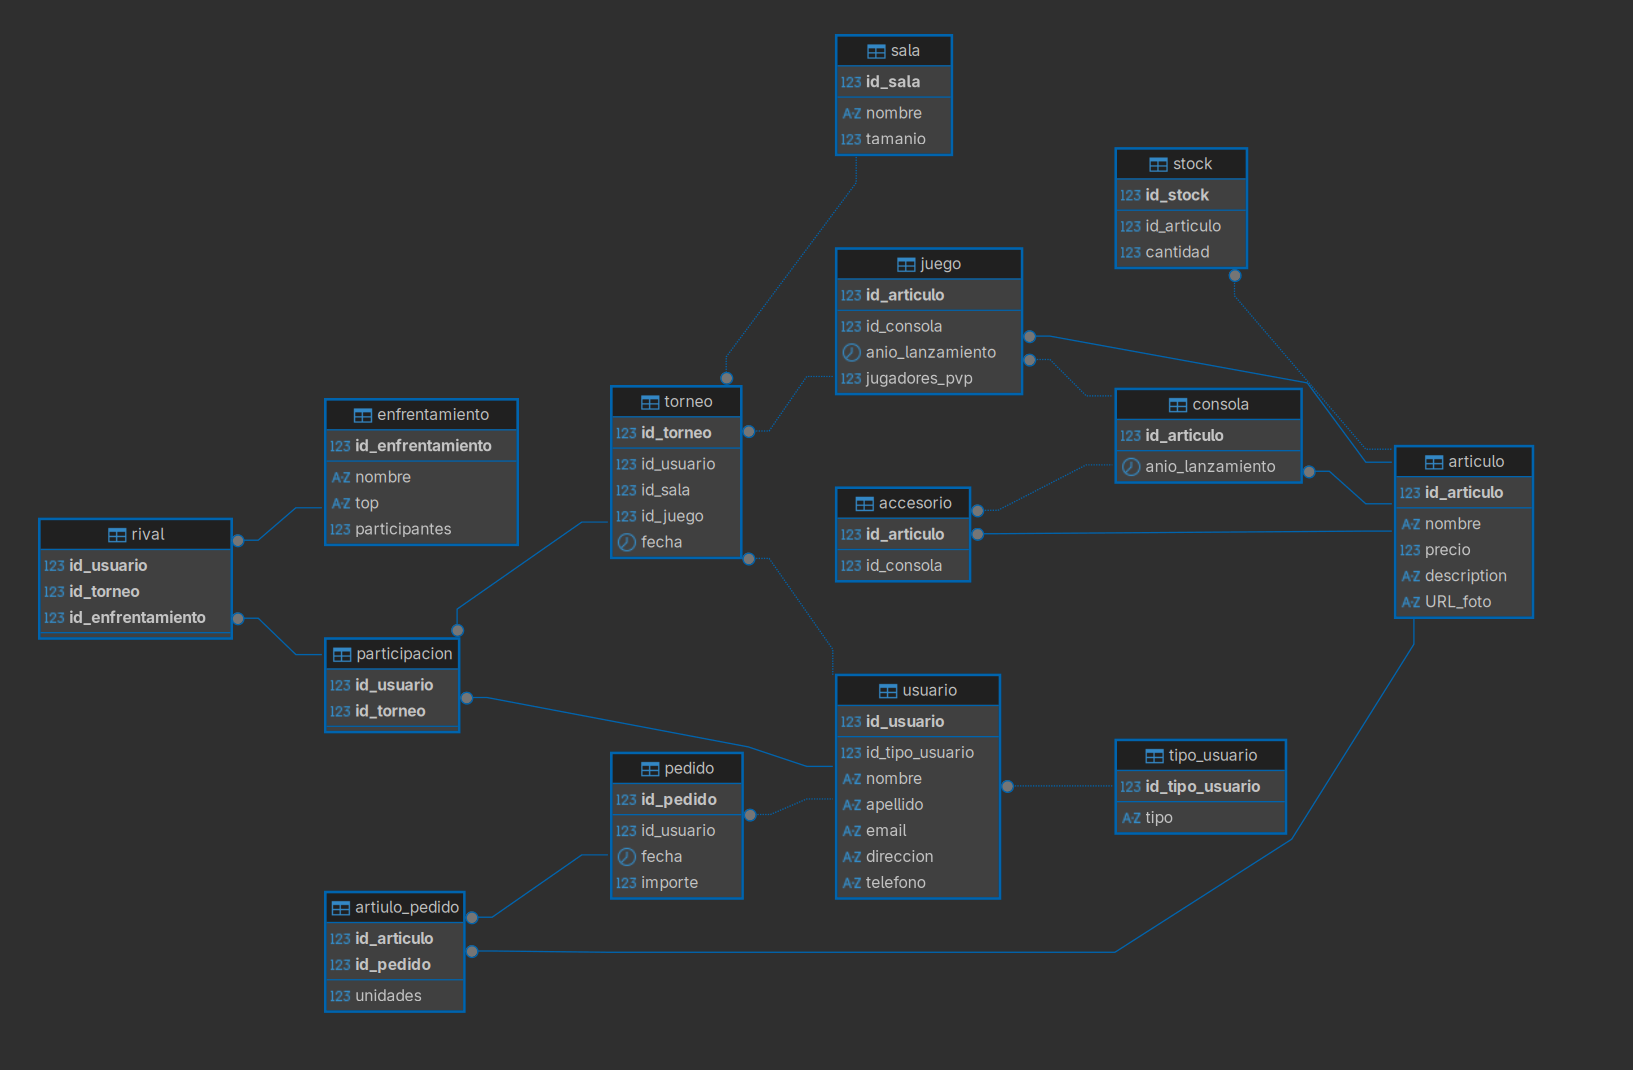
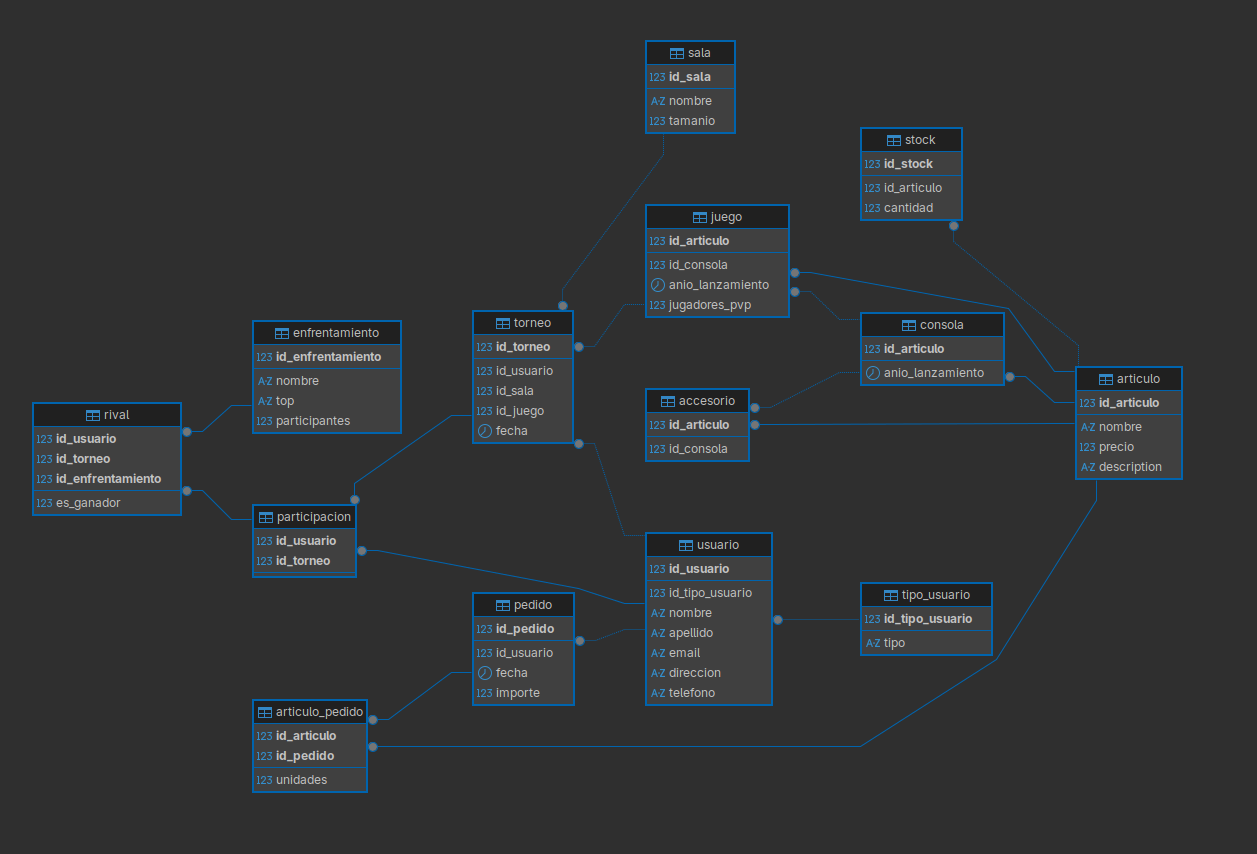
fix table articulo and rival BBDD/ModeloRelacional. Inserts BBDD

diff --git a/README.md b/README.md
@@ -43,13 +43,18 @@ asi como tener acceso a material de otra epoca a traves de nuestra tienda perdid
 
 ## 🚀 Estado del Proyecto
 
-Actualmente nos encontramos en el **Sprint 1: Cimientos**.
+Actualmente nos encontramos en el **Sprint 2: BBDD, diseño web y APP administración**.
 
 - [x] **GIT-01:** Setup del Repo
 - [x] **AN-01:** Definición de Stack Tecnológico (Java 17, JavaFX, MySQL, JDBC, HTML/CSS).
 - [x] **BBDD-01:** Diagrama E/R
-- [ ] **WEB-01:** Maquetación de Landing Page.
+- [x] **WEB-01:** Maquetación de Landing Page.
 - [ ] **APP-01:** Modelado POO
 - [x] **BBDD-02** Creación de la bbdd
+- [ ] **BBDD-04 (🟡):** Desarrollo de consultas SQL críticas (Stock, inscritos por torneo) [cite: 132-140].
+- [ ] **WEB-02 (🟡):** Página de Catálogo con grid responsive de productos[cite: 235, 258].
+- [ ] **WEB-03 (🟡):** Página de Torneos con detalle de eventos. 
+- [ ] **APP-02 (🔴):** Conexión JDBC: Implementación de la lógica de conexión a MySQL [cite: 322-327].
 
 Puedes consultar el Backlog detallado [aquí](./docs/backlog.md).
+Puedes consultar los requisitos de sistema [aquí](./docs/SI/requisitosSO.md)
